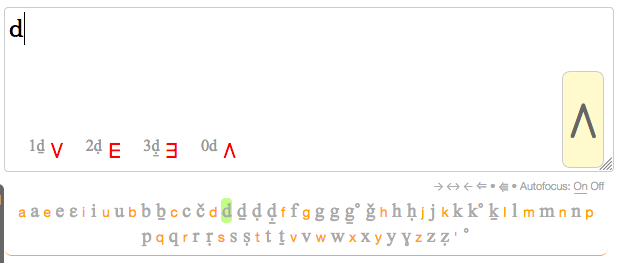
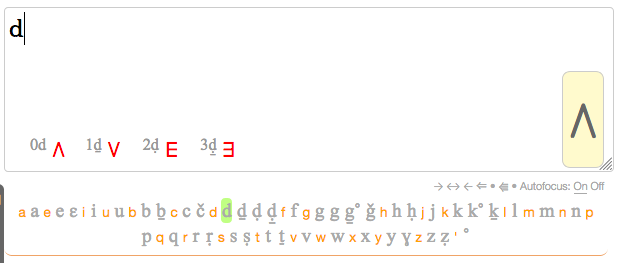
drawCharSelectionPanel now colours transliteration keys

Changed region(s): [[0.0307, 0.5171, 0.399, 0.6084]]

diff --git a/shared23/code.js b/shared23/code.js
@@ -1641,20 +1641,18 @@ var latinOnly = false
 var charChoiceKeys = new Set(['0','1','2','3','4','5','6','7','8','9'])
 
 
-function drawCharSelectionPanel (key) {
+function drawCharSelectionPanelOLD (key) {
         out = ''
         for (let i=1;i<latinCharacters[key].length;i++) {
             if (i > 9) {
                 out += ' &nbsp; Warning: More than 10 items.'
                 break
                 }
-            out += ' <sup>'+eval(i % 10)//+'</sup>'
+            out += ' <sup>'+eval(i % 10)
             if (! window.latinOnly) out += latinCharacters[key][i][0]
             out += '</sup> '
             out += '<bdi onclick="'
-            //if (latinCharacters[key][i][1].includes('-')) out += 'addVowel'
             out += 'addReplacement'
-            //else out += 'add'
             out += '(\''+latinCharacters[key][i][1]+'\'); window.awaitingInput=\'\'; document.getElementById(\'charChoice\').innerHTML = \'\'; ">'+latinCharacters[key][i][1]+'</bdi>'
             }
         out += ' <sup>0'
@@ -1667,6 +1665,66 @@ function drawCharSelectionPanel (key) {
 
         document.getElementById("charChoice").innerHTML = out
     }
+	
+	
+function drawCharSelectionPanelX (key) {
+        out = ''
+        translitTotal = -1
+        if (window.latinOnly) translitTotal = parseInt(latinCharacters[key].pop())
+        for (let i=1;i<latinCharacters[key].length;i++) {
+            if (i > 9) {
+                out += ' &nbsp; Warning: More than 10 items.'
+                break
+                }
+            out += ' <sup'
+            if (i<translitTotal) out += ' style="color: orange;"'
+            out += '>'+eval(i % 10)
+            if (! window.latinOnly) out += latinCharacters[key][i][0]
+            out += '</sup> '
+            out += '<bdi onclick="'
+            out += 'addReplacement'
+            out += '(\''+latinCharacters[key][i][1]+'\'); window.awaitingInput=\'\'; document.getElementById(\'charChoice\').innerHTML = \'\'; ">'+latinCharacters[key][i][1]+'</bdi>'
+            }
+        out += ' <sup'
+        if (translitTotal>0) out += ' style="color: orange;"'
+        out += '>0'
+        if (! window.latinOnly) out += latinCharacters[key][0][0]
+        out += '</sup> <bdi onclick="'
+        out += 'addReplacement'
+        out += '(\''+latinCharacters[key][0][1]+'\'); window.awaitingInput=\'\'; document.getElementById(\'charChoice\').innerHTML = \'\'; ">'+latinCharacters[key][0][1]+'</bdi>'
+
+        document.getElementById("charChoice").innerHTML = out
+    }
+	
+	
+function drawCharSelectionPanel (key) {
+        out = ''
+        if (window.latinOnly) { // deal with # at end indicating how many translit chars
+            translitTotal = parseInt(latinCharacters[key][latinCharacters[key].length-1][0])
+            last = latinCharacters[key].length-1
+            }
+        else {
+            last = latinCharacters[key].length
+            translitTotal = -1
+            }
+        for (let i=0;i<last;i++) {
+            if (i > 9) {
+                out += ' &nbsp; Warning: More than 10 items.'
+                break
+                }
+            out += ' <sup'
+            if (i<translitTotal) out += ' style="color: orange;"'
+            out += '>'+eval(i % 10)
+            if (! window.latinOnly) out += latinCharacters[key][i][0]
+            out += '</sup> '
+            out += '<bdi onclick="'
+            out += 'addReplacement'
+            out += '(\''+latinCharacters[key][i][1]+'\'); window.awaitingInput=\'\'; document.getElementById(\'charChoice\').innerHTML = \'\'; ">'+latinCharacters[key][i][1]+'</bdi>'
+            }
+
+        document.getElementById("charChoice").innerHTML = out
+    }
+	
 	
 // decipher key down codes
 function showDown (evt) {
@@ -1746,7 +1804,9 @@ function makePalette (mappingTable) {
         var charArray = list.split(' ')
         var theKey = charArray.shift()
         out = '<b>'+theKey+'</b>\n'
-        for (let j=0;j<charArray.length;j++) {
+        if (window.latinOnly) last = charArray.length-1 // this removes the translit count
+        else last = charArray.length
+        for (let j=0;j<last;j++) {
             if (window.latinOnly) {
                 out += '<span class="t" onclick="add(\''+charArray[j]+'\')">'+charArray[j]+'</span>\n'
                 }

diff --git a/shared23/helptemplate.js b/shared23/helptemplate.js
@@ -121,7 +121,8 @@ if (aidsList.match('latin')) {
 	out += `
 	<p><b class="leadin">Latin characters.</b> Displays a panel of lowercase Latin characters you are likely to need for  transcription, and sets up the <strong>Latin type-in mode</strong>.</p>
     <p>As you type, suggestions for input will appear at the bottom of the text area. To insert one of those items into the text area at the cursor position, type the appropriate number key, or click directly on the item you want to insert. The character you typed will be replaced by the item you selected. (If you already typed the character you wanted, just continue typing.)</p>
-    <p><img src="../../shared23/images/helpcharacter-selector.png" alt=""/></p>
+    <p><img src="../../shared23/images/help/character-selector.png" alt=""/></p>
+    <p>The digits coloured orange identify items used by this picker's transliteration scheme. The other items will be used for other types of transcription, such as phonetic, or ISO, etc.</p>
     <p>The key that produces the suggestions is highlighted in orange in a panel that appears below the text area.</p>
     <p><img src="../../shared23/images/help/latin-panel.png" alt=""/></p>
     <p>You can also click on the items in that panel in order to insert them. In general, alternative characters are associate with a key on the keyboard that ressembles them when displayed - eg. &#x0263; will usually be brought up by clicking on the 'v' key (rather than, say 'g').</p>
